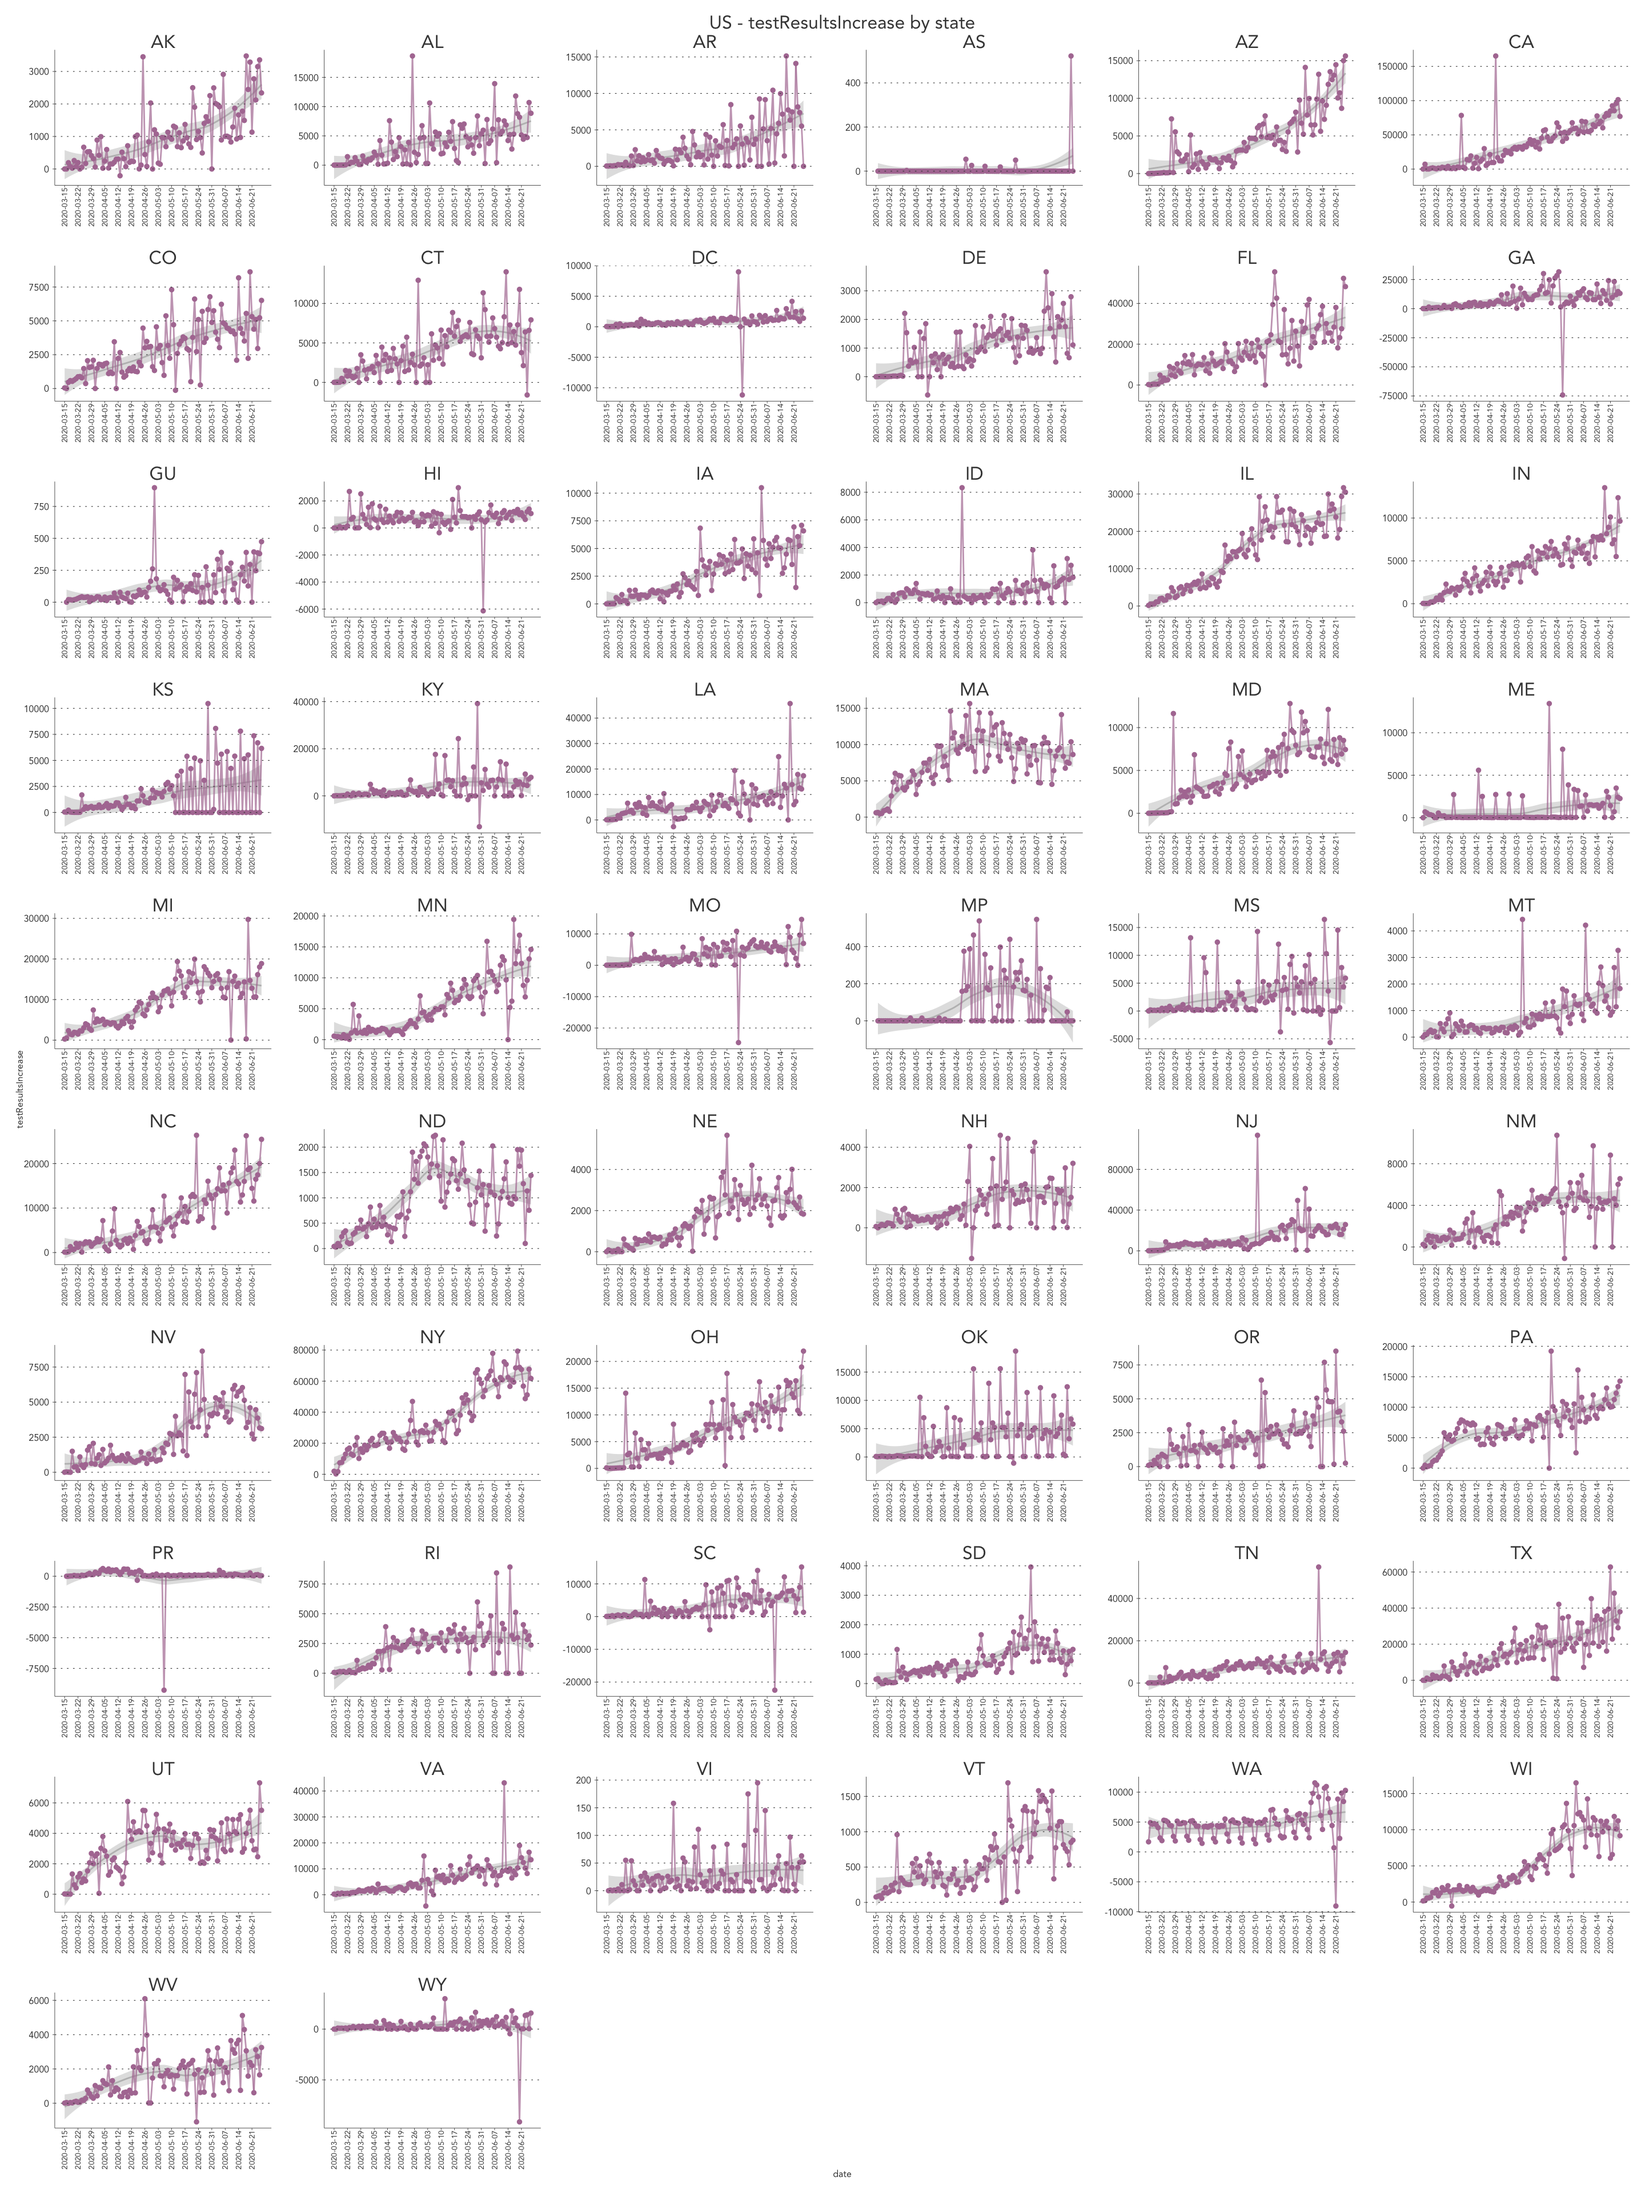
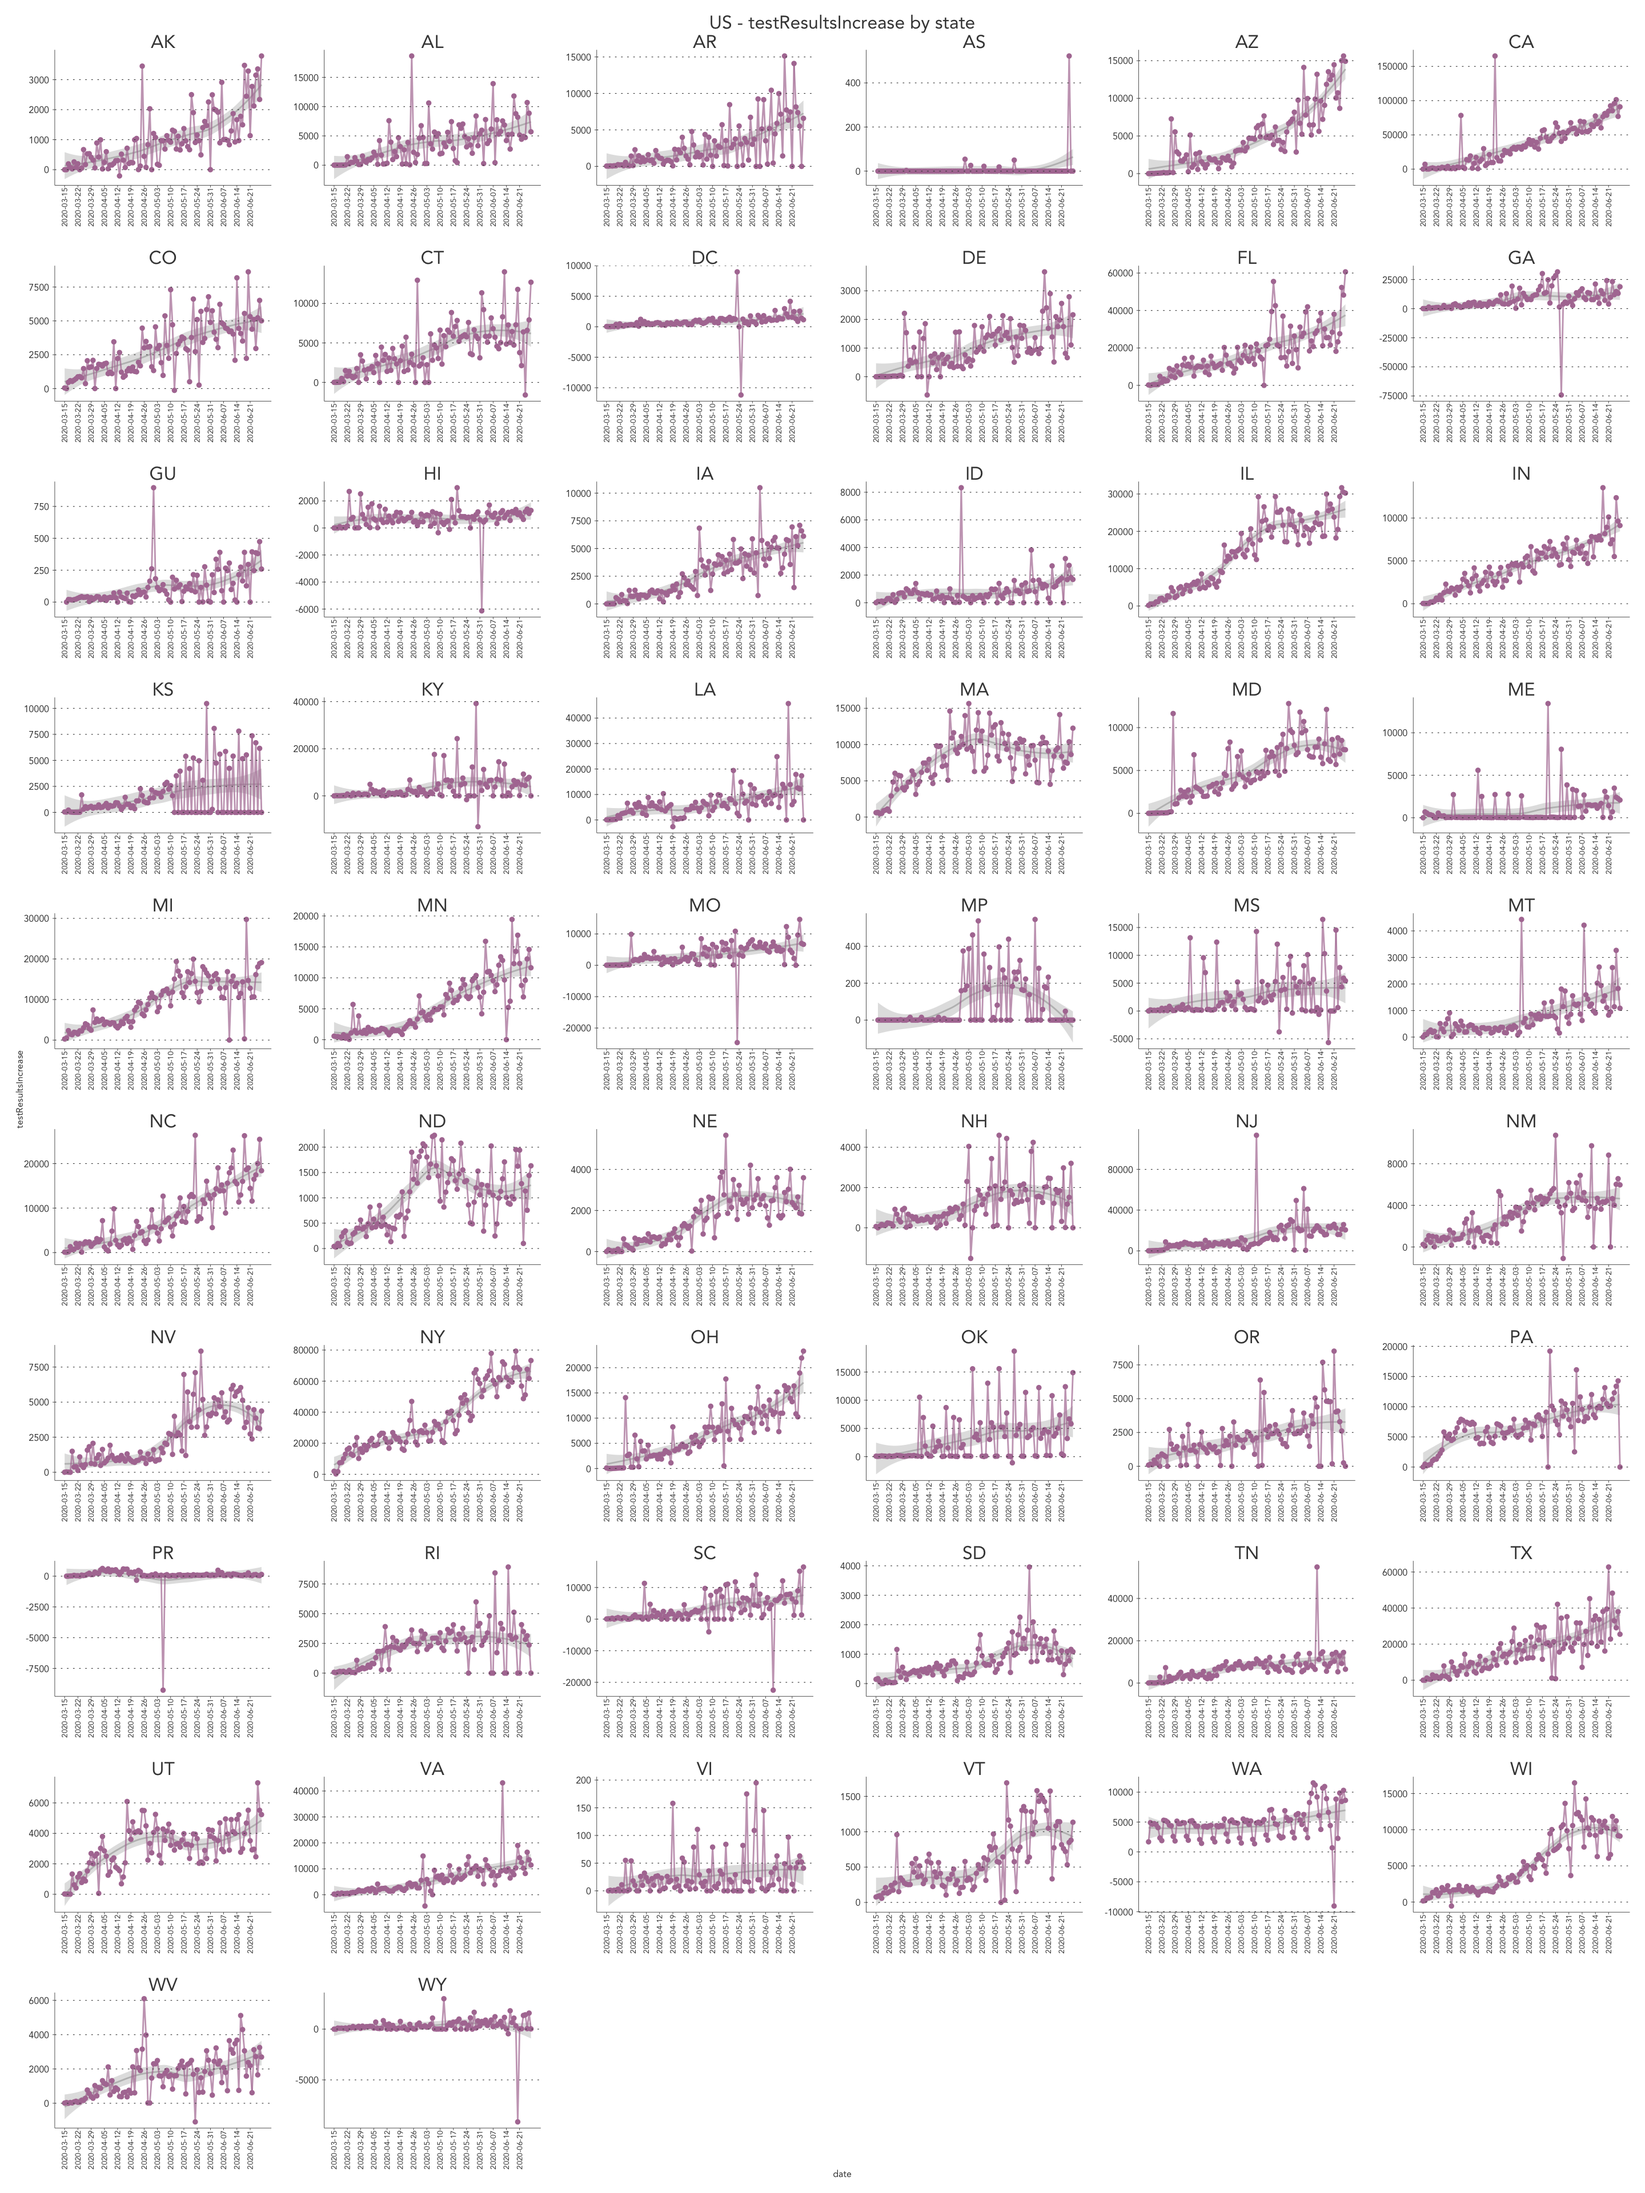
0627 update

diff --git a/covid19-vis.html b/covid19-vis.html
@@ -305,52 +305,52 @@ population
 <tbody>
 <tr>
 <td style="text-align:left;">
-2020-06-26
+2020-06-27
 </td>
 <td style="text-align:left;">
 AK
 </td>
 <td style="text-align:right;">
-836
+854
 </td>
 <td style="text-align:right;">
-100956
-</td>
-<td style="text-align:right;">
-0
-</td>
-<td style="text-align:right;">
-12
+104727
 </td>
 <td style="text-align:right;">
 0
 </td>
 <td style="text-align:right;">
+11
+</td>
+<td style="text-align:right;">
+0
+</td>
+<td style="text-align:right;">
 0
 </td>
 <td style="text-align:right;">
 0
 </td>
 <td style="text-align:right;">
-2
+1
 </td>
 <td style="text-align:right;">
 0
 </td>
 <td style="text-align:right;">
-519
+521
 </td>
 <td style="text-align:left;">
 A
 </td>
 <td style="text-align:left;">
-6/26/2020 00:00
+6/27/2020 00:00
 </td>
 <td style="text-align:left;">
-2020-06-26T00:00:00Z
+2020-06-27T00:00:00Z
 </td>
 <td style="text-align:left;">
-06/25 20:00
+06/26 20:00
 </td>
 <td style="text-align:right;">
 14
@@ -359,10 +359,10 @@ A
 0
 </td>
 <td style="text-align:left;">
-2020-06-26T00:00:00Z
+2020-06-27T00:00:00Z
 </td>
 <td style="text-align:right;">
-101792
+105581
 </td>
 <td style="text-align:right;">
 0
@@ -377,31 +377,31 @@ A
 2
 </td>
 <td style="text-align:right;">
-20
+18
 </td>
 <td style="text-align:right;">
-2320
+3771
 </td>
 <td style="text-align:right;">
-101792
+105581
 </td>
 <td style="text-align:right;">
-101792
+105581
 </td>
 <td style="text-align:right;">
-2340
+3789
 </td>
 <td style="text-align:right;">
-101792
+105581
 </td>
 <td style="text-align:right;">
-2
+0
 </td>
 <td style="text-align:right;">
 0
 </td>
 <td style="text-align:left;">
-2d488ae6053360ee51e30da54826ae89e3d5f6bc
+eac2c91113c5343623d7f117d62cf3e5843016d3
 </td>
 <td style="text-align:right;">
 0
@@ -427,37 +427,37 @@ A
 </tr>
 <tr>
 <td style="text-align:left;">
-2020-06-26
+2020-06-27
 </td>
 <td style="text-align:left;">
 AL
 </td>
 <td style="text-align:right;">
-34183
+35083
 </td>
 <td style="text-align:right;">
-344140
-</td>
-<td style="text-align:right;">
-0
-</td>
-<td style="text-align:right;">
-658
-</td>
-<td style="text-align:right;">
-2653
+348943
 </td>
 <td style="text-align:right;">
 0
 </td>
 <td style="text-align:right;">
-772
+655
+</td>
+<td style="text-align:right;">
+2697
 </td>
 <td style="text-align:right;">
 0
 </td>
 <td style="text-align:right;">
-450
+789
+</td>
+<td style="text-align:right;">
+0
+</td>
+<td style="text-align:right;">
+453
 </td>
 <td style="text-align:right;">
 18866
@@ -466,22 +466,22 @@ AL
 B
 </td>
 <td style="text-align:left;">
-6/26/2020 11:00
+6/27/2020 11:00
 </td>
 <td style="text-align:left;">
-2020-06-26T11:00:00Z
+2020-06-27T11:00:00Z
 </td>
 <td style="text-align:left;">
-06/26 07:00
+06/27 07:00
 </td>
 <td style="text-align:right;">
-907
+919
 </td>
 <td style="text-align:right;">
-2653
+2697
 </td>
 <td style="text-align:left;">
-2020-06-26T11:00:00Z
+2020-06-27T11:00:00Z
 </td>
 <td style="text-align:right;">
 0
@@ -493,37 +493,37 @@ B
 0
 </td>
 <td style="text-align:right;">
-33717
+34605
 </td>
 <td style="text-align:right;">
 1
 </td>
 <td style="text-align:right;">
-977
+900
 </td>
 <td style="text-align:right;">
-7888
+4803
 </td>
 <td style="text-align:right;">
-378323
+384026
 </td>
 <td style="text-align:right;">
-378323
+384026
 </td>
 <td style="text-align:right;">
-8865
+5703
 </td>
 <td style="text-align:right;">
-378323
+384026
 </td>
 <td style="text-align:right;">
-11
+12
 </td>
 <td style="text-align:right;">
-41
+44
 </td>
 <td style="text-align:left;">
-3bc8263099834fe738b66ab83ad9051e791e260c
+f3ec59f215f1b0ea932724a62d7bc69a33b39aa3
 </td>
 <td style="text-align:right;">
 0
@@ -549,16 +549,16 @@ B
 </tr>
 <tr>
 <td style="text-align:left;">
-2020-06-26
+2020-06-27
 </td>
 <td style="text-align:left;">
 AR
 </td>
 <td style="text-align:right;">
-18062
+18740
 </td>
 <td style="text-align:right;">
-259318
+265225
 </td>
 <td style="text-align:right;">
 0
@@ -567,7 +567,7 @@ AR
 284
 </td>
 <td style="text-align:right;">
-1300
+1337
 </td>
 <td style="text-align:right;">
 0
@@ -576,13 +576,13 @@ AR
 0
 </td>
 <td style="text-align:right;">
-61
+63
 </td>
 <td style="text-align:right;">
-203
+206
 </td>
 <td style="text-align:right;">
-12127
+12784
 </td>
 <td style="text-align:left;">
 A
@@ -597,10 +597,10 @@ A
 06/26 10:40
 </td>
 <td style="text-align:right;">
-240
+249
 </td>
 <td style="text-align:right;">
-1300
+1337
 </td>
 <td style="text-align:left;">
 2020-06-26T14:40:00Z
@@ -621,31 +621,31 @@ A
 5
 </td>
 <td style="text-align:right;">
-0
+678
 </td>
 <td style="text-align:right;">
-0
+5907
 </td>
 <td style="text-align:right;">
-277380
+283965
 </td>
 <td style="text-align:right;">
-277380
+283965
 </td>
 <td style="text-align:right;">
-0
+6585
 </td>
 <td style="text-align:right;">
-277380
+283965
 </td>
 <td style="text-align:right;">
-0
+9
 </td>
 <td style="text-align:right;">
-55
+37
 </td>
 <td style="text-align:left;">
-3a3818c25eff5da0debaf9e511a69bf6cbbb96d7
+cfd915be121e741463506ac9374bc936cd30ca83
 </td>
 <td style="text-align:right;">
 0
